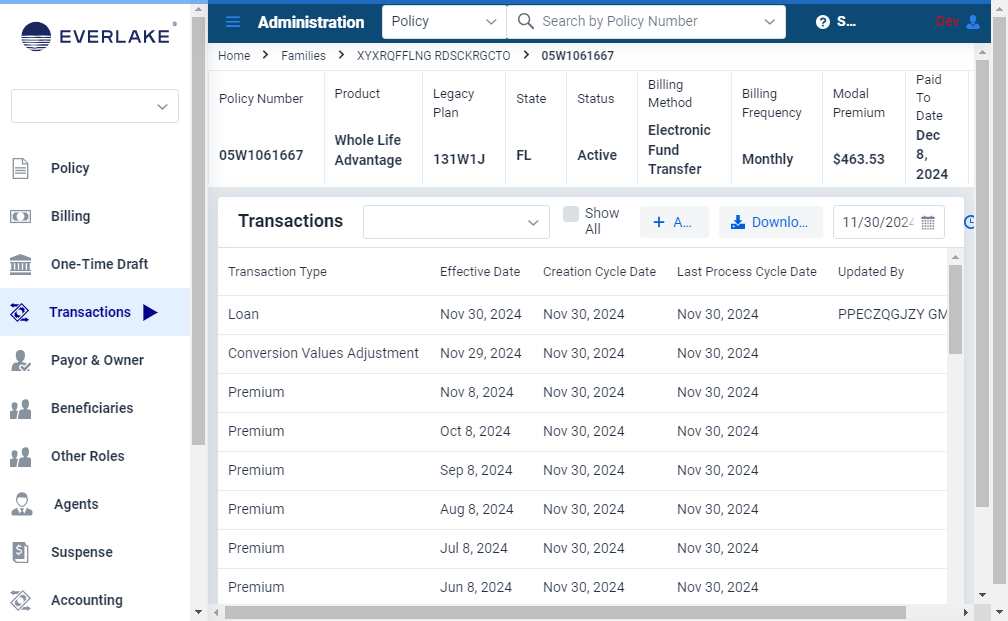
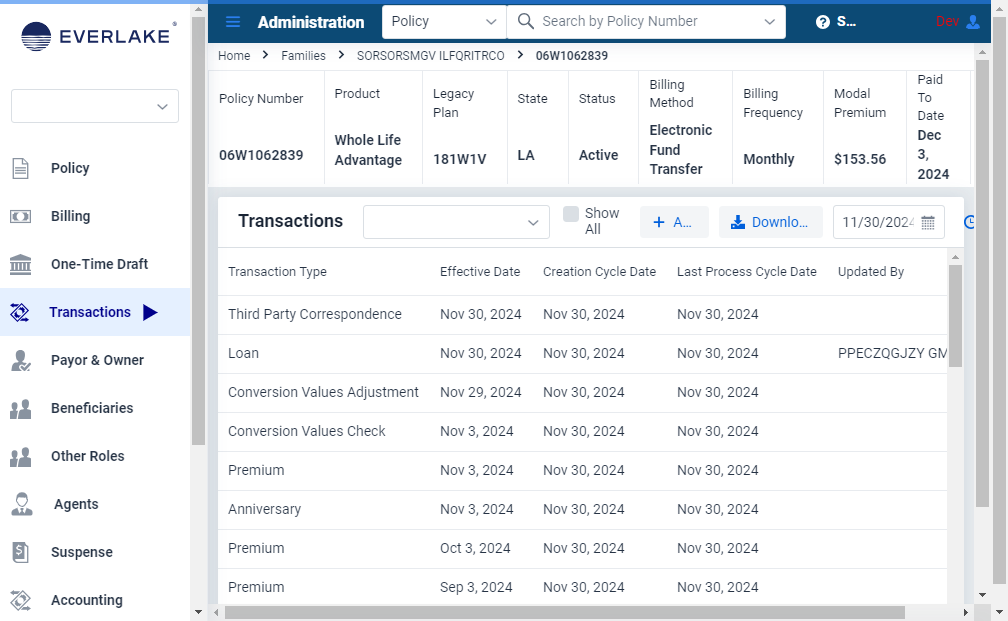
for today

diff --git a/src/test/java/com/vaadin/testbenchexample/ScenarioView.java b/src/test/java/com/vaadin/testbenchexample/ScenarioView.java
@@ -100,7 +100,7 @@ public class ScenarioView extends TestBenchElement {
 
 	protected ButtonElement processInitialPremiumTransactionButton() {
 
-		return $( TestBenchElement.class ).id( "viewContent" ).$( "scenario-component" ).first().$( TestBenchElement.class ).id( "fieldLayout" ).$( "transactions-view-page" ).first().$( TestBenchElement.class ).id( "content" ).$( "search-component" ).first().$( ButtonElement.class ).get( 2 );
+		return $( TestBenchElement.class ).id( "viewContent" ).$( "scenario-component" ).first().$( TestBenchElement.class ).id( "fieldLayout" ).$( "transactions-view-page" ).first().$( TestBenchElement.class ).id( "content" ).$( "search-component" ).first().$( ButtonElement.class ).get( 4 );
 	}
 
 	protected  ProgressBarElement progressBar() {

diff --git a/src/test/java/com/vaadin/testbenchexample/WholeLifeIT.java b/src/test/java/com/vaadin/testbenchexample/WholeLifeIT.java
@@ -64,9 +64,9 @@ public class WholeLifeIT extends BaseLoginTest {
 		VaadinSelectView getSelectButton = $( VaadinSelectView.class ).first();
 		getSelectButton.getSelectItem().selectItemByIndex( 4 );
 		SearchComponentView getPolicy = $( SearchComponentView.class ).first();
-		getPolicy.searchByPolicy().sendKeys( "05W1061667" );
+		getPolicy.searchByPolicy().sendKeys( "06W1062839" );
 		getPolicy.searchButton().click();
-		getPolicy.family().getCell( "05W1061667" ).click();
+		getPolicy.family().getCell( "06W1062839" ).click();
 		NaviMenuView transaction = $( NaviMenuView.class ).first();
 		transaction.transactionsWL().click();
 		ScenarioView loanTransaction = $(ScenarioView.class).first();

diff --git a/src/test/java/com/vaadin/testbenchexample/BaseLoginTest.java b/src/test/java/com/vaadin/testbenchexample/BaseLoginTest.java
@@ -88,7 +88,12 @@ public abstract class BaseLoginTest extends TestBenchTestCase {
 	driver.manage().window().setSize(new Dimension(1024, 768));
 	Parameters.setScreenshotRetryDelay(10);
 	Parameters.setScreenshotComparisonCursorDetection(true);
-}
+		File errorScreenshotDir = new File("error-screenshots");
+		if (!errorScreenshotDir.exists()) {
+			errorScreenshotDir.mkdirs();
+		}
+
+	}
 
 	// Your login method
 
